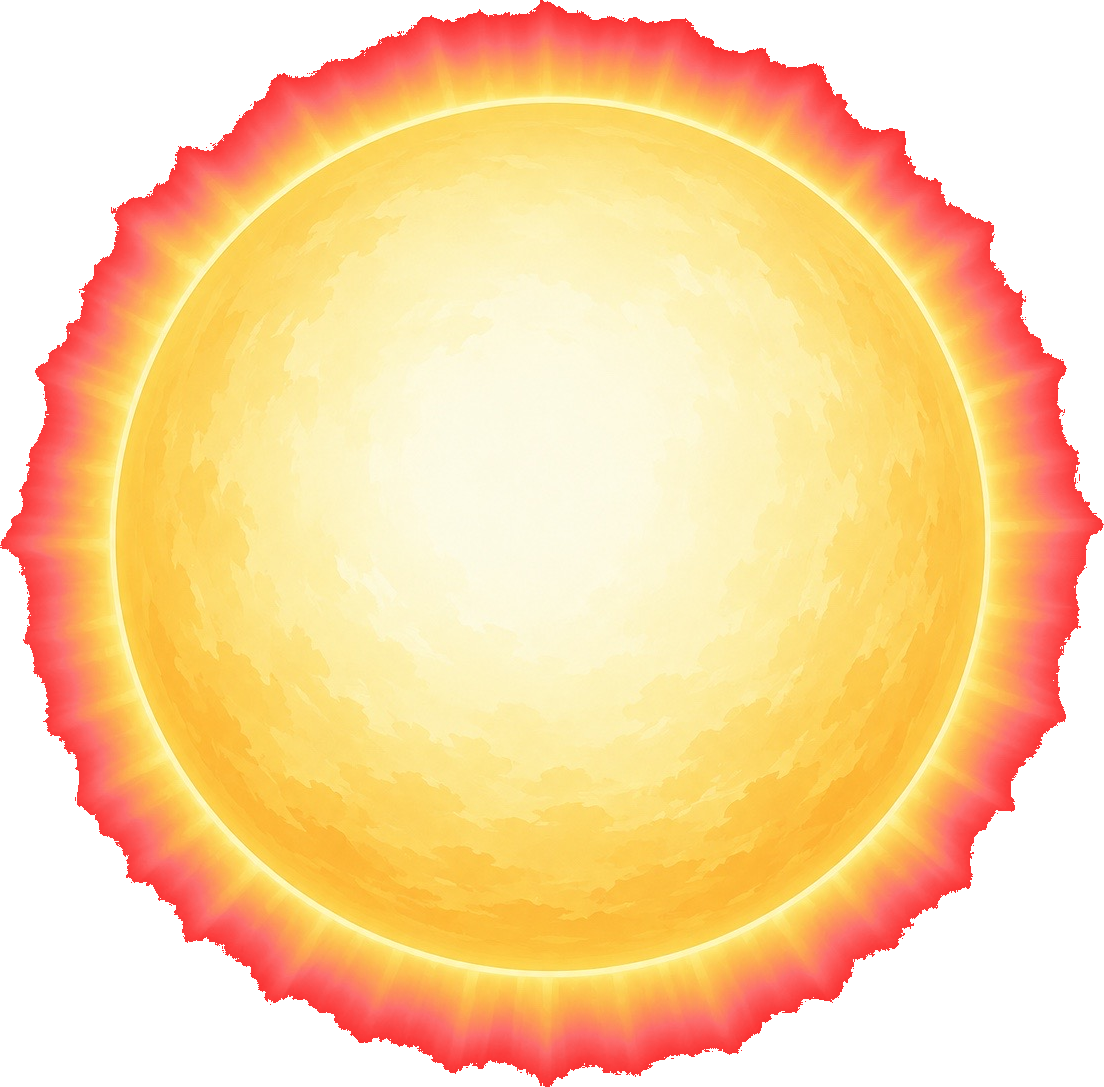
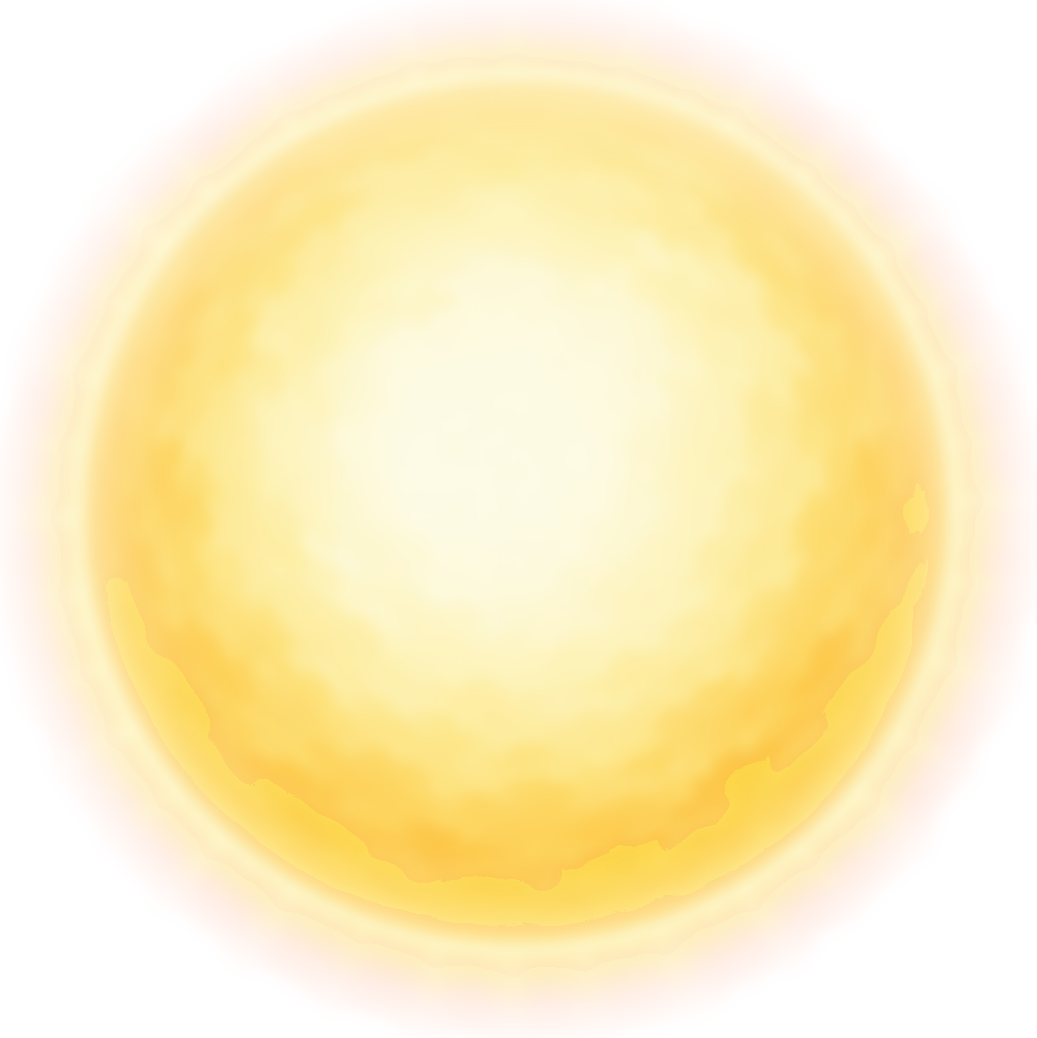
Room: soften the sun's red edge + brighten daytime
- Sun sprite re-processed: a light blur smudges the ragged rim, the harsh red is warmed
  toward orange, and a radial alpha feather dissolves the outer rays into the sky — no
  more hard "sticker" edge.
- renderArea lifts the plate's exposure in daylight (brightness/saturate via ctx.filter,
  scaled by 1−nightAt) so the court reads bright and sunny by day.

The room sky/lighting already read the shared engine.clockMinutes, so time in the court
matches the city (day sky at 1PM, night sky + moon at 9PM) — no separate clock.

Claude-Session: https://claude.ai/code/session_01MzT91WcyqemncboiCffQLx

diff --git a/src/game/renderer.ts b/src/game/renderer.ts
@@ -893,10 +893,15 @@ export class HollywoodRenderer {
     // backdrop plate (storefronts + floor)
     const img = this.getOverture(R.backdrop);
     if (img && img.complete && img.naturalWidth > 0) {
+      const night = nightAt(this.engine.clockMinutes);
+      // DAY BRIGHTNESS: lift the plate's exposure in daylight so the court reads bright & sunny.
+      const day = 1 - night;
+      const prevFilter = ctx.filter;
+      if (day > 0.02) ctx.filter = `brightness(${(1 + 0.18 * day).toFixed(3)}) saturate(${(1 + 0.06 * day).toFixed(3)})`;
       ctx.drawImage(img, 0, 0, R.w, R.h);
+      ctx.filter = prevFilter;
       // NIGHT LIFT: additively re-composite the plate so its painted lit windows / signage GLOW after
       // dark (the bright pixels add, the dark ones add ~nothing) — so buildings read at night.
-      const night = nightAt(this.engine.clockMinutes);
       if (night > 0.02) {
         ctx.save();
         ctx.globalCompositeOperation = "lighter";
